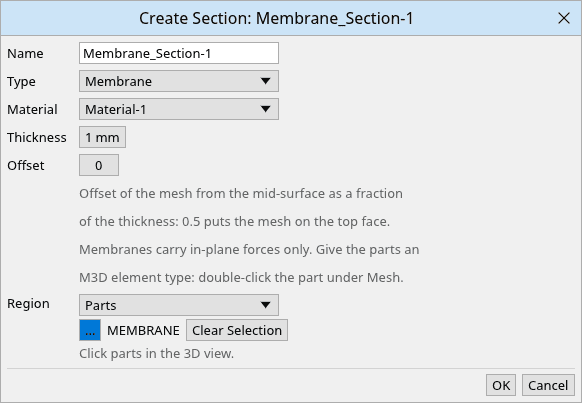
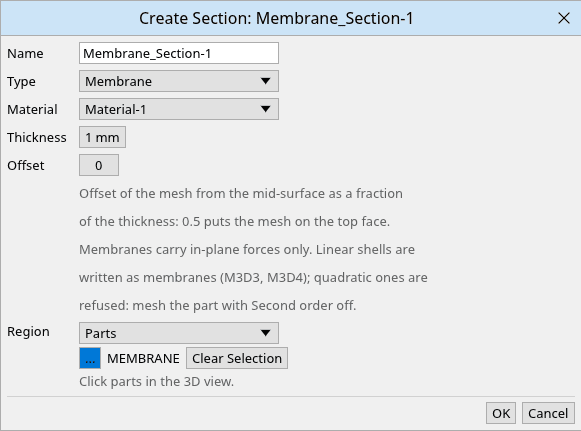
Membrane section: own model check problem, shells written as membranes
A section that does not fit its elements was reported as a missing
reference; it is now its own error, "Section does not fit its elements",
with an explanation and a remedy. Linear shells (S3, S4, S4R) under a
membrane section are written as M3D3, M3D4 and M3D4R, so a part needs no
element type change; quadratic ones stay refused.

Claude-Session: https://claude.ai/code/session_019tG9ArV3ZTVYp6oz1xgXiX

Changed region(s): [[0.0, 0.0, 1.0, 1.0], [0.0, 0.7444, 0.0929, 0.804], [0.0, 0.1191, 0.0929, 0.1489]]

diff --git a/crates/plx-model/src/checks.rs b/crates/plx-model/src/checks.rs
@@ -32,6 +32,9 @@ pub enum Severity {
 #[derive(Clone, Copy, Debug, PartialEq, Eq, Hash)]
 pub enum Problem {
     MissingReference,
+    /// A section whose type does not fit its elements, such as a beam section on solids or
+    /// a membrane section on quadratic elements, or whose values CalculiX rejects.
+    InvalidSection,
     NoSection,
     NoElastic,
     NoDensity,
@@ -132,6 +135,7 @@ impl Problem {
     pub fn title(self) -> &'static str {
         match self {
             Problem::MissingReference => "Missing reference",
+            Problem::InvalidSection => "Section does not fit its elements",
             Problem::NoSection => "Elements without material",
             Problem::NoElastic => "Material without elasticity",
             Problem::NoDensity => "Material without density",
@@ -182,6 +186,14 @@ impl Problem {
                 "The item refers to something that no longer exists, for example a \
                  deleted material or a set the mesh no longer has. The input file \
                  cannot be written like this."
+            }
+            Problem::InvalidSection => {
+                "The type of the section and the elements of its region do not go together: \
+                 beams and trusses need line elements, solid sections solid or plane \
+                 elements, shell and membrane sections surface elements of a 3D model. \
+                 Membranes must be linear, since CalculiX computes quadratic membranes \
+                 (M3D6, M3D8) wrongly. Dimensions such as a thickness of 0 are rejected too. \
+                 The input file cannot be written like this."
             }
             Problem::NoSection => {
                 "CalculiX needs a material for every element. Elements that no section \
@@ -411,6 +423,11 @@ impl Problem {
             Problem::MissingReference => {
                 "Edit the item and select an existing selection or an existing \
                  material, or delete it."
+            }
+            Problem::InvalidSection => {
+                "Edit the section and choose the type that fits its elements, or change the \
+                 element type of the part (double-click it under Mesh). For a membrane \
+                 section mesh the part again with Second order off."
             }
             Problem::NoSection => {
                 "Under Sections create a section for the part or extend an existing one \
@@ -742,6 +759,14 @@ impl FeModel {
         let mut findings: Vec<Finding> = (self.invalid_items(mesh).into_iter())
             .map(|i| Finding::new(i.item, Problem::MissingReference, i.reason))
             .collect();
+        for (i, section) in self.sections.iter().enumerate() {
+            let item = ModelItem::Section(i);
+            if !findings.iter().any(|f| f.item == item)
+                && let Some(reason) = section.kind_problem(mesh)
+            {
+                findings.push(Finding::new(item, Problem::InvalidSection, reason));
+            }
+        }
         self.check_materials(&mut findings);
         self.check_sections(mesh, &mut findings);
         for (part, bad) in mesh_check.distorted.iter().enumerate() {
@@ -2344,6 +2369,32 @@ mod tests {
 
     fn problems(findings: &[Finding]) -> Vec<(ModelItem, Problem)> {
         findings.iter().map(|f| (f.item, f.problem)).collect()
+    }
+
+    /// A section that does not fit its elements is its own problem, not a missing reference.
+    #[test]
+    fn a_section_on_the_wrong_elements_is_an_invalid_section() {
+        let mesh = cubes(2, true);
+        let mut model = model(&mesh);
+        model.sections[0].kind = crate::SectionKind::Membrane {
+            thickness: 1.0,
+            offset: 0.0,
+        };
+        let findings = check(&model, &mesh);
+        assert_eq!(
+            problems(&findings),
+            [(ModelItem::Section(0), Problem::InvalidSection)]
+        );
+        assert!(
+            findings[0].detail.contains("triangles or quads"),
+            "{findings:?}"
+        );
+        // A missing material is reported once, as a missing reference.
+        model.sections[0].material = "Gone".into();
+        assert_eq!(
+            problems(&check(&model, &mesh)),
+            [(ModelItem::Section(0), Problem::MissingReference)]
+        );
     }
 
     #[test]

diff --git a/crates/plx-model/src/section.rs b/crates/plx-model/src/section.rs
@@ -47,8 +47,9 @@ pub enum SectionKind {
     Shell { thickness: f64, offset: f64 },
     /// Surface elements of a 3D model as membranes (`*MEMBRANE SECTION`): like a shell, but
     /// carrying in-plane forces only, without bending stiffness or rotations. The elements
-    /// must be linear membranes, `M3D3`, `M3D4` or `M3D4R`, chosen as the part's element
-    /// type; see [`crate::element_type_options`] for why quadratic ones are refused.
+    /// must be linear: membranes `M3D3`, `M3D4` or `M3D4R`, or linear shells, which are
+    /// written as these (see [`membrane_type`]); see [`crate::element_type_options`] for
+    /// why quadratic ones are refused.
     Membrane { thickness: f64, offset: f64 },
 }
 
@@ -161,11 +162,13 @@ impl SectionKind {
                     element.id
                 ))
             }
-            SectionKind::Membrane { .. } if !membrane => Some(format!(
-                "Element {} is a {} element; a Membrane Section needs membrane \
-                 elements, choose an M3D element type for its part",
-                element.id, element.type_name
-            )),
+            SectionKind::Membrane { .. } if !membrane && membrane_type(&upper).is_none() => {
+                Some(format!(
+                    "Element {} is a {} element; a Membrane Section needs triangles or \
+                     quads of a 3D model",
+                    element.id, element.type_name
+                ))
+            }
             SectionKind::Membrane { .. } => None,
             _ if !line => Some(format!("Element {} is not a line element", element.id)),
             SectionKind::Beam(beam)
@@ -180,6 +183,18 @@ impl SectionKind {
             }
             _ => None,
         }
+    }
+}
+
+/// The membrane a linear shell is written as under a membrane section: `S3` becomes `M3D3`,
+/// `S4` `M3D4` and `S4R` `M3D4R`. Quadratic shells have none; CalculiX gets quadratic
+/// membranes wrong.
+pub fn membrane_type(shell_type: &str) -> Option<&'static str> {
+    match shell_type.to_ascii_uppercase().as_str() {
+        "S3" => Some("M3D3"),
+        "S4" => Some("M3D4"),
+        "S4R" => Some("M3D4R"),
+        _ => None,
     }
 }
 
@@ -432,9 +447,12 @@ mod tests {
                     .is_some()
             );
         }
+        // Linear shells are written as membranes.
+        assert_eq!(membrane.rejects(&element("S4R", ElementShape::Quad4)), None);
+        assert_eq!(membrane_type("S4R"), Some("M3D4R"));
         assert!(
             membrane
-                .rejects(&element("S4", ElementShape::Quad4))
+                .rejects(&element("S8", ElementShape::Quad8))
                 .is_some()
         );
         assert!(

diff --git a/crates/plx-io/src/inp/write/tests.rs b/crates/plx-io/src/inp/write/tests.rs
@@ -699,11 +699,21 @@ fn a_membrane_section_is_written_for_membrane_elements() {
     );
     // Results at the membrane nodes, as for shells.
     assert!(text.contains("*Node file, Output=2D\nRF, U\n"), "{text}");
-    // Shell elements under a membrane section, and membranes under a shell or solid
-    // section, are refused before CalculiX would be.
+    // Linear shells under a membrane section are written as membranes without choosing an
+    // element type; the mesh keeps its shells.
     model.element_types.clear();
+    let text = write_inp(&mesh, &model, "").unwrap();
+    assert!(
+        text.contains("*Element, Type=M3D4, Elset=PLATE\n"),
+        "{text}"
+    );
+    assert!(mesh.elements().iter().all(|e| e.type_name == "S4"));
+    // Quadratic shells under a membrane section, and membranes under a shell or solid
+    // section, are refused before CalculiX would be.
+    let (quadratic, mut plate) = shell_plate();
+    plate.sections[0].kind = model.sections[0].kind.clone();
     assert!(matches!(
-        write_inp(&mesh, &model, ""),
+        write_inp(&quadratic, &plate, ""),
         Err(WriteError::InvalidSection { .. })
     ));
     for kind in [
@@ -726,11 +736,17 @@ fn a_membrane_section_is_written_for_membrane_elements() {
 /// unevenly loaded tip, with each membrane element type a part can have.
 #[test]
 fn calculix_stretches_a_membrane_strip() {
-    for type_name in ["M3D3", "M3D4", "M3D4R"] {
-        let (mesh, model) = membrane_strip(type_name);
+    // S4R is written as M3D4R.
+    for (chosen, type_name) in [
+        ("M3D3", "M3D3"),
+        ("M3D4", "M3D4"),
+        ("M3D4R", "M3D4R"),
+        ("S4R", "M3D4R"),
+    ] {
+        let (mesh, model) = membrane_strip(chosen);
         let text = write_inp(&mesh, &model, "").unwrap();
         assert!(text.contains(&format!("Type={type_name},")), "{text}");
-        let name = format!("membran-{}", type_name.to_ascii_lowercase());
+        let name = format!("membran-{}", chosen.to_ascii_lowercase());
         let Some(frd) = run_ccx(&name, &text) else {
             return;
         };

diff --git a/crates/plx-model/src/element_type.rs b/crates/plx-model/src/element_type.rs
@@ -116,6 +116,29 @@ impl FeModel {
         !changes.is_empty()
     }
 
+    /// Writes the linear shells of membrane sections as membranes, see
+    /// [`crate::membrane_type`]; true when any changed. The user need not choose an M3D
+    /// element type for a part with a membrane section.
+    pub fn apply_membrane_sections(&self, mesh: &mut FeMesh) -> bool {
+        let mut changes = Vec::new();
+        for section in &self.sections {
+            if !matches!(section.kind, crate::SectionKind::Membrane { .. }) {
+                continue;
+            }
+            for element in
+                (section.region.elements(mesh).into_iter()).filter_map(|id| mesh.element(id))
+            {
+                if let Some(type_name) = crate::membrane_type(&element.type_name) {
+                    changes.push((element.id, type_name.to_string()));
+                }
+            }
+        }
+        for (id, type_name) in &changes {
+            mesh.set_element_type(*id, type_name.clone());
+        }
+        !changes.is_empty()
+    }
+
     /// Follows a renamed part with the element types chosen for it. Merged parts keep the
     /// choices of the part merged into.
     pub(crate) fn rename_element_types(&mut self, old: &str, new: &str) {

diff --git a/crates/plx-io/src/inp/write.rs b/crates/plx-io/src/inp/write.rs
@@ -266,15 +266,18 @@ pub fn model_keywords(
 ) -> Result<Vec<Keyword>, WriteError> {
     // The faces of 2D elements are their edges; a mesh whose surface elements are still
     // typed as shells is written as the model space types them. Parts get the element
-    // types the user chose for them.
+    // types the user chose for them, and linear shells of membrane sections are written as
+    // membranes.
     let space = model.properties.space;
     let retyped;
     let mesh = if !model.element_types.is_empty()
+        || (model.sections.iter()).any(|s| matches!(s.kind, SectionKind::Membrane { .. }))
         || (mesh.elements().iter())
             .any(|e| space.element_type(&e.type_name, e.shape) != e.type_name)
     {
         let mut copy = mesh.clone();
         model.apply_element_types(&mut copy);
+        model.apply_membrane_sections(&mut copy);
         space.convert_mesh(&mut copy);
         retyped = copy;
         &retyped

diff --git a/crates/plx-app/src/setup.rs b/crates/plx-app/src/setup.rs
@@ -1836,10 +1836,13 @@ impl Editor {
                         ui.end_row();
                         if membrane {
                             ui.label("");
-                            ui.weak("Membranes carry in-plane forces only. Give the parts an");
+                            ui.weak("Membranes carry in-plane forces only. Linear shells are");
                             ui.end_row();
                             ui.label("");
-                            ui.weak("M3D element type: double-click the part under Mesh.");
+                            ui.weak("written as membranes (M3D3, M3D4); quadratic ones are");
+                            ui.end_row();
+                            ui.label("");
+                            ui.weak("refused: mesh the part with Second order off.");
                             ui.end_row();
                         }
                     }

diff --git a/crates/plx-model/src/lib.rs b/crates/plx-model/src/lib.rs
@@ -52,7 +52,8 @@ pub use moving_load::{AXIS_LABELS, MovingFrame, MovingLoad, Wheel};
 pub use properties::{ModelKind, ModelProperties, ModelSpace};
 pub use region::{Region, describe_entities};
 pub use section::{
-    BeamOrientation, BeamProfile, BeamSection, Section, SectionKind, line_tangent, unit_thickness,
+    BeamOrientation, BeamProfile, BeamSection, Section, SectionKind, line_tangent, membrane_type,
+    unit_thickness,
 };
 pub use symmetry::{SymmetryError, SymmetryPlane, symmetry_dofs, symmetry_plane};
 pub use units::{BASE_QUANTITIES, DERIVED_QUANTITIES, Quantity, UnitSystem};

diff --git a/crates/plx-model/src/validity.rs b/crates/plx-model/src/validity.rs
@@ -49,7 +49,7 @@ impl FeModel {
             let reason = if !self.materials.iter().any(|m| m.name == section.material) {
                 Some(format!("Material {} does not exist", section.material))
             } else {
-                (section.region.missing_reference(mesh)).or_else(|| section.kind_problem(mesh))
+                section.region.missing_reference(mesh)
             };
             if let Some(reason) = reason {
                 invalid.push(Invalid {
